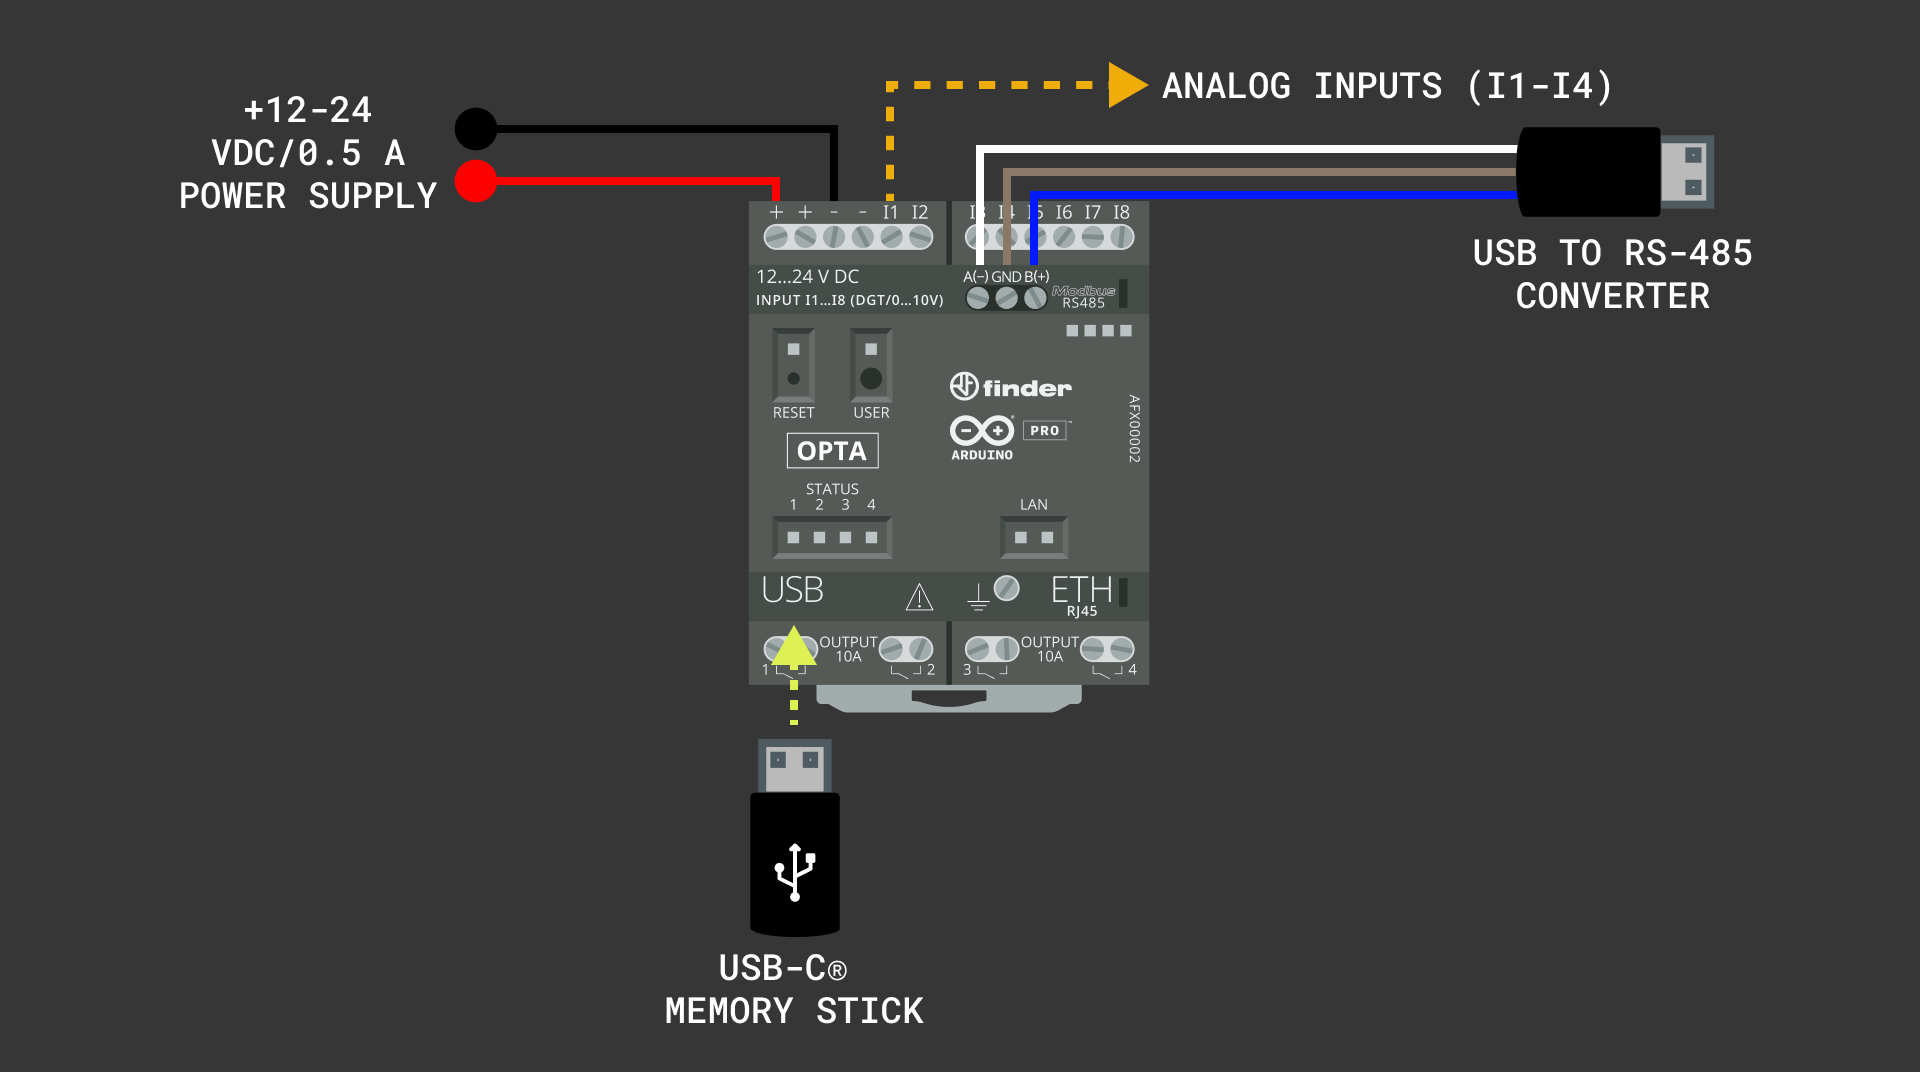
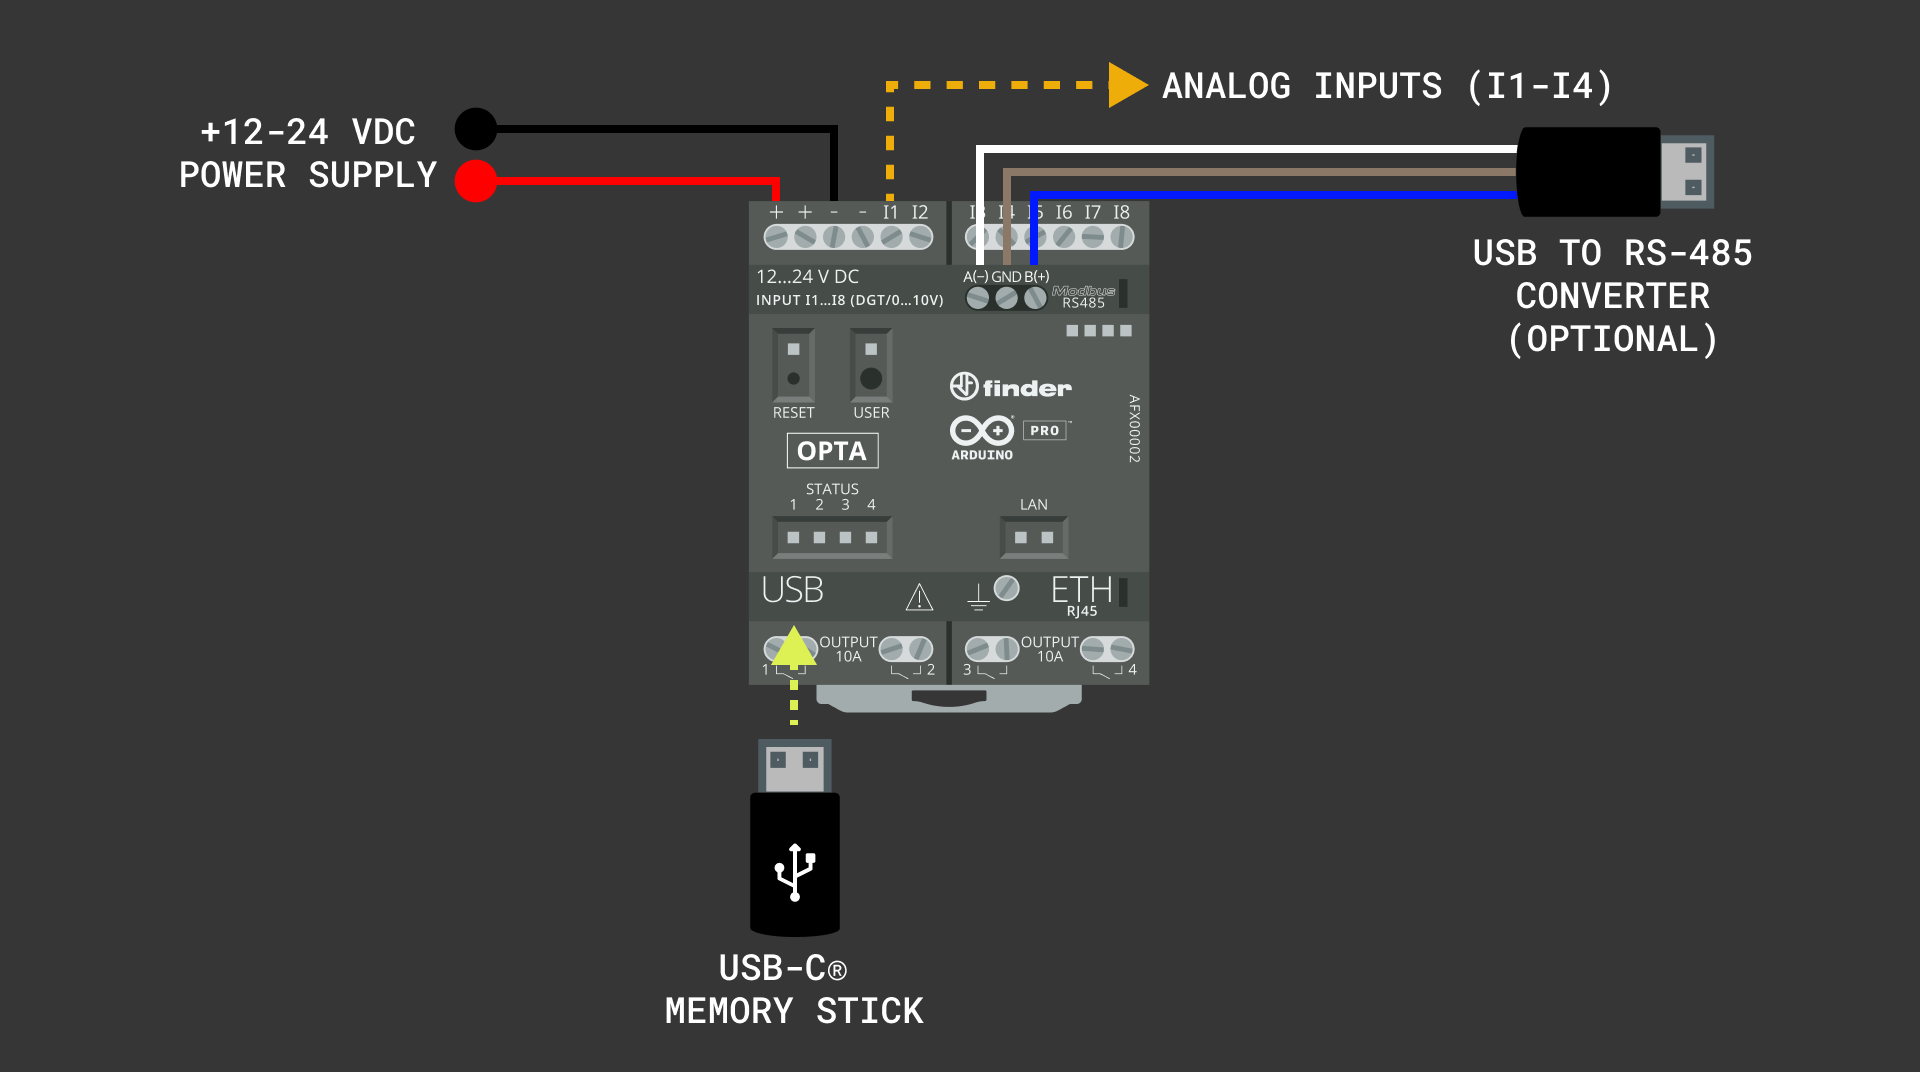
Content update (Julián's review)

Changed region(s): [[0.0938, 0.0924, 0.25, 0.2155], [0.7812, 0.2771, 0.9062, 0.3386]]

diff --git a/content/hardware/07.opta/opta-family/opta/tutorials/usb-data-logging/content.md b/content/hardware/07.opta/opta-family/opta/tutorials/usb-data-logging/content.md
@@ -1,5 +1,5 @@
 ---
-title: 'Getting Started with USB Data Logging on Opta™'
+title: 'Using a USB Memory Stick for Data Logging on Opta™'
 description: "Learn how to interface an Opta™ device with a USB memory stick for data logging."
 difficulty: intermediate
 tags:
@@ -15,7 +15,9 @@ hardware:
 
 ## Overview
 
-In this tutorial, we'll learn how to interface an Opta™ device with a USB memory stick for data logging. Data logging is an essential process in industrial environments, where it is critical to continuously monitor and record vital parameters like temperature, pressure, or flow rates. These parameters are often captured through sensors connected to the input ports of a device like the Opta™. You will record readings from four analog input ports of an Opta™ device and store the data in a `.txt` file on the USB memory stick. Additionally, we will use the onboard user button and LEDs of the Opta™ device to start, stop, and indicate the status of the data logging process to the user. 
+In this tutorial, we will learn how to interface an Opta™ device with a USB memory stick for data logging. Data logging is an essential process in industrial environments, where it is critical to continuously monitor and record vital parameters like temperature, pressure, or flow rates. These parameters are often captured through sensors connected to the input ports of a device like the Opta™. 
+
+You will record readings from four analog input ports of an Opta™ device and store the data in a `.txt` file on the USB memory stick. Additionally, we will use the onboard user button and LEDs of the Opta™ device to start, stop, and indicate the status of the data logging process to the user. 
 
 ## Goals
 
@@ -29,45 +31,51 @@ In this tutorial, we'll learn how to interface an Opta™ device with a USB memo
 ### Hardware Requirements
 
 - [Opta™](https://store.arduino.cc/collections/pro-family/products/opta-wifi) (x1)
-- [USB-C® cable](https://store.arduino.cc/products/usb-cable2in1-type-c) (x1)
-- +12-24 VDC/0.5 A power supply (x1)
+- [USB-A to USB-C® cable](https://store.arduino.cc/products/usb-cable2in1-type-c) (x1)
+- +12-24 VDC power supply (x1)
 - Compatible USB-C® memory stick (x1)
 
 ### Software Requirements
 
 - [Arduino IDE 1.8.10+](https://www.arduino.cc/en/software), [Arduino IDE 2.0+](https://www.arduino.cc/en/software), or [Arduino Web Editor](https://create.arduino.cc/editor)
-- [`Arduino_UnifiedStorage`](https://github.com/arduino-libraries/Arduino_UnifiedStorage) library
-- [`ArduinoRS485 library`](https://github.com/arduino-libraries/ArduinoRS485)
+- [Arduino_UnifiedStorage](https://github.com/arduino-libraries/Arduino_UnifiedStorage) library
+- [Arduino_POSIXStorage](https://github.com/arduino-libraries/Arduino_POSIXStorage) library
+- [Arduino_USBHostMbed5](https://github.com/arduino-libraries/Arduino_USBHostMbed5) library
+- [ArduinoRS485](https://github.com/arduino-libraries/ArduinoRS485) library
 
 ### Compatible USB Memory Sticks
 
-The following USB memory sticks have been tested by the Arduino Team and are known to be fully compatible with Opta® devices:
+Any USB-C® memory stick should work with Opta® devices and the `Arduino_UnifiedStorage` library. The following USB-C® memory sticks have been officially tested by the Arduino Team and are known to be fully compatible with Opta® devices:
 
 - Kingston® DataTraveler® 80 M USB-C 256 GB Flash Drive
 - SanDisk® Ultra® Dual Drive USB Type-C 64 GB Flash Drive
 - SanDisk® Ultra® Dual Drive Go USB Type-C 64 GB Flash Drive
 
-**Note:** All USB memory sticks were formatted with the `FAT32` file system before they were used with an Opta® device.
+**Note:** All USB memory sticks were formatted with the `FAT32` file system before they were used with an Opta® device and the `Arduino_UnifiedStorage` library.
 
 ***It is recommended to use USB memory sticks with a storage capacity of 256 GB or less. If a memory stick has a storage capacity greater than 256 GB, it is advised to partition it, limiting the accessible storage to 256 GB or less.***
 
 ## USB Memory Sticks and Data Logging
 
-USB memory sticks, or Flash drives, are essential for data logging purposes in industrial environments. These small, rewritable storage devices equipped with integrated Flash memory and a USB interface are ideal for storing data such as temperature, pressure, and machine performance over time. Data logging, particularly in industrial environments, is essential for predictive maintenance, process optimization, and quality control. It involves collecting large amounts of data over time, which can be analyzed to identify trends, predict equipment failures, and improve operational efficiency.
+USB memory sticks, or Flash drives, are essential for data logging purposes in industrial environments. These small, rewritable storage devices equipped with integrated Flash memory and a USB interface are ideal for storing data such as temperature, pressure, and machine performance over time. 
+
+Data logging, particularly in industrial environments, is essential for predictive maintenance, process optimization, and quality control. It involves collecting large amounts of data over time, which can be analyzed to identify trends, predict equipment failures and improve operational efficiency.
 
 ![USB memory sticks and data logging with Opta™ devices](assets/illustration-1.png)
 
-To manage the communication between a USB memory stick and an Opta™ device, you will use the [`Arduino_UnifiedStorage` library](https://github.com/arduino-libraries/Arduino_UnifiedStorage/tree/main). This library is excellent for working with different types of storage, including the FAT file systems that USB memory sticks often use. The main benefit of this library is that it makes dealing with various storage devices and file systems more straightforward. This is especially important in industrial data logging, where you need reliable and accurate data recording. The `Arduino_UnifiedStorage` library simplifies how to read and write data to external storage devices, ensuring precise and consistent data logging.
+To manage the communication between a USB memory stick and an Opta™ device, you will use the [`Arduino_UnifiedStorage` library](https://github.com/arduino-libraries/Arduino_UnifiedStorage/tree/main). This library is excellent for working with different types of storage, including the FAT file systems that USB memory sticks often use. The main benefit of this library is that it makes dealing with various storage devices and file systems more straightforward. This is especially important in industrial data logging, where you need reliable and accurate data recording. The `Arduino_UnifiedStorage` library simplifies how to read and write data to external storage devices, ensuring precise and consistent data logging. You can learn more about this library in the [following blog post](https://blog.arduino.cc/2023/11/10/introducing-arduinos-new-storage-libraries-streamline-data-management-for-your-projects/).
 
 ## Instructions 
 
 ### Setting Up the Arduino IDE 
 
-This tutorial requires the latest version of the Arduino IDE; you can download it [here](https://www.arduino.cc/en/software). In the Arduino IDE, you need to install the core for Opta™ devices; this can be done by navigating to **Tools > Board > Boards Manager** or clicking the Boards Manager icon in the left tab of the IDE. In the Boards Manager tab, search for `opta` and install the latest `Arduino Mbed OS Opta Boards` release.
+This tutorial requires the latest version of the Arduino IDE; you can download it [here](https://www.arduino.cc/en/software). In the Arduino IDE, you need to install the core for Opta™ devices; this can be done by navigating to **Tools > Board > Boards Manager** or clicking the Boards Manager icon in the left tab of the IDE. 
+
+In the Boards Manager tab, search for `opta` and install the latest `Arduino Mbed OS Opta Boards` release.
 
 ![Installing the Opta™ core in the Arduino IDE](assets/arduino-ide-1.png)
 
-Now you are ready to start compiling and uploading Arduino sketches to an Opta™ device using the Arduino IDE. 
+You can start compiling and uploading Arduino sketches to an Opta™ device using the Arduino IDE.
 
 ### Installing the Required Libraries 
 
@@ -75,9 +83,9 @@ This tutorial also requires the latest version of the `Arduino_UnifiedStorage` l
 
 ![Installing libraries in the Arduino IDE](assets/arduino-ide-2.png)
 
-***By default, the `Arduino_UnifiedStorage` library is installed with the `Arduino_POSIXStorage` and `Arduino_USBHostMbed5` libraries by the Arduino IDE's Library Manager. Check that all of the mentioned libraries are installed correctly.***
+***The `Arduino_UnifiedStorage` library need other dependencies: the `Arduino_POSIXStorage` and the `Arduino_USBHostMbed5` libraries. Ensure all the mentioned libraries are installed correctly and updated to their latest release.***
 
-The `Arduino_UnifiedStorage` library uses the RS-485 interface of your Opta™ device for debugging purposes. Install the `ArduinoRS485 library` also since it is used by the the `Arduino_UnifiedStorage` library for debugging. To receive and show the debug messages on your computer, you can use a USB to RS-485 converter such as [the converter used by the Arduino Pro Content Team](https://www.waveshare.com/usb-to-rs485.htm). You can use the Arduino IDE's Serial Monitor to display the messages received in the converter or another serial terminal such as [CoolTerm](https://freeware.the-meiers.org/), a simple and cross-platform (Windows, Mac, and Linux) serial port terminal application (no terminal emulation) that is geared towards hobbyists and professionals.
+**Note**: The `Arduino_UnifiedStorage` library can use the RS-485 interface of your Opta™ device for **debugging purposes**. Ensure that the `ArduinoRS485 library` is installed and updated to its latest release since it is used by the `Arduino_UnifiedStorage` library for debugging. To receive and show the debug messages on your computer, you can use a USB to RS-485 converter, such as [the converter used by the Arduino Pro Content Team](https://www.waveshare.com/usb-to-rs485.htm). You can use the Arduino IDE's Serial Monitor to display the messages received in the converter or another serial terminal such as [CoolTerm](https://freeware.the-meiers.org/), a simple and cross-platform (Windows, Mac, and Linux) serial port terminal application (no terminal emulation) that is geared towards hobbyists and professionals.
 
 ### Setting Up the Hardware
 
@@ -89,8 +97,8 @@ Connect a +12-24 VDC/0.5 A power supply to your Opta™ device; for receiving de
 
 The example code below shows how to interface an Opta™ device with a USB memory stick, storing data from four analog inputs of an Opta device into a single line in a file on a USB memory stick. Here's a brief overview of the user interaction and the device's functionality:
 
-- **Starting the process**: The data logging process begins by pressing and holding the user button on an Opta™ device for three seconds and then releasing it. This action triggers the device to enter a waiting mode for the connection of a USB memory stick, indicated by a dynamic "Knight Rider" LED pattern.
-- **Connecting the USB memory stick**: Once a USB memory stick is connected to an Opta™ device, it automatically starts logging data. Data from four analog inputs of the Opta™ device are recorded in a structured format onto the USB memory stick. During this process, LED_D0 blinks to indicate active data logging.
+- **Starting the process**: The data logging process begins by pressing and holding the user button on an Opta™ device for three seconds and then releasing it. This action triggers the device to enter a waiting mode for the connection of a USB memory stick, indicated by a dynamic "Knight Rider" LED pattern with the onboard user LEDs.
+- **Connecting the USB memory stick**: Once a USB memory stick is connected to an Opta™ device, it automatically starts logging data. Data from four analog inputs of the Opta™ device are recorded in a structured format onto the USB memory stick. During this process, `LED_D0` blinks to indicate active data logging.
 - **Stopping data logging**: The process stops by pressing and holding the user button for another three seconds and then releasing it. The device stops recording data and signals completion by flashing all user LEDs ten times.
 
 ```arduino
@@ -284,7 +292,7 @@ void performUpdate() {
 // Board initialization 
 void setup() {
   Serial.begin(115200); 
-  Arduino_UnifiedStorage::debuggingModeEnabled = true;
+  Arduino_UnifiedStorage::debuggingModeEnabled = false;
   analogReadResolution(12);
 
   usbStorage = USBStorage();
@@ -341,33 +349,32 @@ Here is a step-by-step breakdown of the code shown above:
 
 Import libraries:
 
-- The necessary libraries are imported at the beginning of the code. The example code uses the `Arduino_UnifiedStorage` library, simplifying data management across various storage types, including USB memory sticks.
+- The sketch starts by importing the `Arduino_UnifiedStorage` library, which is essential for managing the USB memory stick and file system.
 
 Variables and instances definition:
 
-- Instances are created for handling the USB mass storage and the file system. Arrays are also defined to store the analog input pin numbers and the built-in LED numbers.
-- The example code defines variables for time tracking without using the `delay()` function, utilizing `previousMillis` and `interval`.
-For the "Knight Rider" LED pattern, which sequentially lights up the user LEDs, we use the variables `ledDirection` and `currentLed`.
+- The sketch establishes instances for handling the USB memory stick and the file system. Arrays are defined to store the analog input pin numbers (`analog_pins`) and the onboard user LED numbers (`led_pins`).
+- Variables for managing time (`previousMillis` and `interval`) are used to track data logging intervals without relying on the built-in `delay()` function.
+- The "Knight Rider" LED pattern is controlled by `ledDirection` and `currentLed` variables, sequentially illuminating the user LEDs on the Opta™ device.
 
 The `setup()` function:
 
-- The Opta™ device is initialized. The analog-to-digital converter's resolution is set, onboard LEDs are initialized, and a connection to the USB memory stick is established. If the connection and mounting are successful, the example code sets up the file system for data read/write operations.
+- The sketch initializes your Opta™ device, setting the analog-to-digital converter resolution and preparing the onboard user LEDs.
+- The sketch establishes connection handlers for the USB memory stick using `connectionCallback()` and `disconnectionCallback()` functions.
 
 The main `loop()` function:
 
-- The example code checks if the user button is pressed for three seconds to start the data logging process. All user LEDs are turned off if triggered, and the `dataLoggingStarted` flag is set to `TRUE`.
-- If data logging has started, it checks if the button is held down for three seconds again to stop the data logging process. If this happens, all LEDs blink ten times to indicate that data logging has stopped.
-- While waiting for a USB mass storage device connection, the program displays the "Knight Rider" LED pattern.
-- Once the connection is established, user LEDs are turned off. The file system on the USB memory stick is then mounted.
-- A file named `analog_inputs_data.txt` is opened on the USB memory stick for writing.
-- Finally, the example code takes analog readings and writes them to the file every second. The file is closed once the data is successfully written and the USB memory stick is unmounted.
+- The sketch monitors the onboard user button for a three-second pressing, holding, and then releasing it to initiate or stop the data logging process.
+- When data logging is started, `LED_D0` is illuminated as an indication. The "Knight Rider" LED pattern is displayed while the device waits for a USB memory stick connection.
+- The `writeToUSB()` function manages the data writing process to the USB memory stick, including initialization and updating data to the USB memory stick through the `performUpdate()` function.
+- Analog input data is formatted and written to a file named `analog_inputs_data.txt` on the USB memory stick.
+- When the data logging is completed (indicated by pressing the user button for three seconds again), the code stops writing data to the USB memory stick.
+- The sketch shows the end of the data logging process by blinking all the onboard user LEDs ten times.
 
-Debugging with `debugPrint` statements via Opta's RS-485 interface:
+**Optional**: Debugging with `debugPrint` statements via Opta's RS-485 interface
 
-- `debugPrint` functions are used throughout the code to monitor the program's execution and track potential issues.
-- These debug statements print vital information through Opta's RS-485 serial interface, such as status messages during USB connection, errors, and file operation outcomes.
-
-***Debugging ensures that each sketch part works as expected, mainly when interfacing with external devices like USB memory sticks.***
+- The `debugPrint` functions provide essential feedback throughout the code, aiding in monitoring and troubleshooting.
+- These statements output important information via your Opta™ device's onboard RS-485 serial interface, including status updates during USB memory stick connection and file operation results.
 
 ### Testing the Example Code
 
